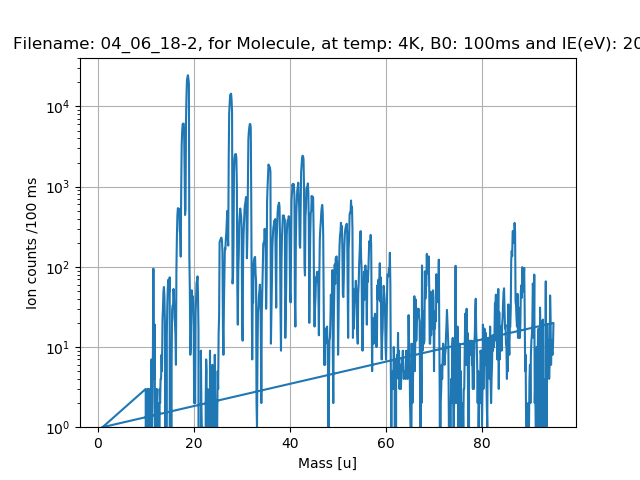
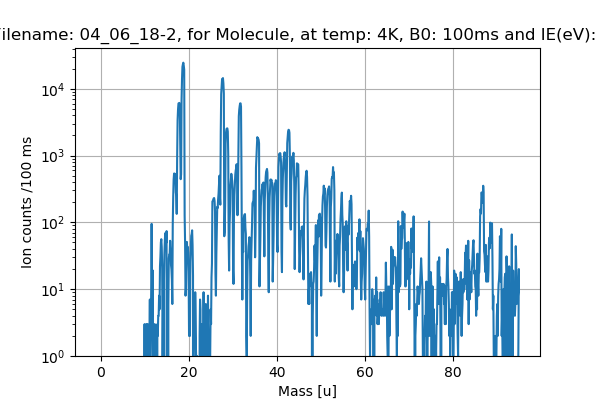
update

Changed region(s): [[0.0, 0.06, 1.0, 1.0]]

diff --git a/FELion_avgSpec.py b/FELion_avgSpec.py
@@ -19,7 +19,7 @@ def export_file(fname, wn, inten):
     f.write("#wn (cm-1)       intensity\n")
     for i in range(len(wn)):
         f.write("{:8.3f}\t{:8.2f}\n".format(wn[i], inten[i]))
-    #f.close()
+    f.close()
 
 def main(**kwargs):
     t="Title"
@@ -94,6 +94,10 @@ def avgSpec_plot(
                 xmin=1000,\
                 xmax=2000,\
                 outFilename="average",\
+                mname="Molecule",\
+                temp = 4,\
+                bwidth = 100,\
+                ie = 20,\
                 specificFiles = False,
                 allFiles = True
                 ):
@@ -118,7 +122,7 @@ def avgSpec_plot(
 
     if all and not specificFiles:
         for l in fileNameList:
-            a,b = norm_line_felix(l[0])
+            a,b = norm_line_felix(l[0], mname, temp, bwidth, ie)
             fig.plot(a, b, ls='', marker='o', ms=1, label=l[0])
             xs = np.append(xs,a)
             ys = np.append(ys,b)

diff --git a/GUI_NormAvg.py b/GUI_NormAvg.py
@@ -187,6 +187,7 @@ def gui_normline():
                                                             i_avg_xmin.get(), \
                                                             i_avg_xmax.get(),\
                                                             output_filename.get(),\
+                                                            mname.get(), temp.get(), bwidth.get(), ie.get(),\
                                                             specificFiles=specificFiles_status,\
                                                             allFiles=allFiles_status),\
                                                             )

diff --git a/FELion_massSpec.py b/FELion_massSpec.py
@@ -85,6 +85,10 @@ def main(date):
 
 def massSpec(fname, mname, temp, bwidth, ie):
 
+    plt.rcParams['figure.figsize'] = [6,4]
+    plt.rcParams['figure.dpi'] = 80
+    plt.rcParams['savefig.dpi'] = 100
+    
     my_path = os.getcwd()
     if fname.find(".felix")>0:
         fname = fname.split(".")[0]
